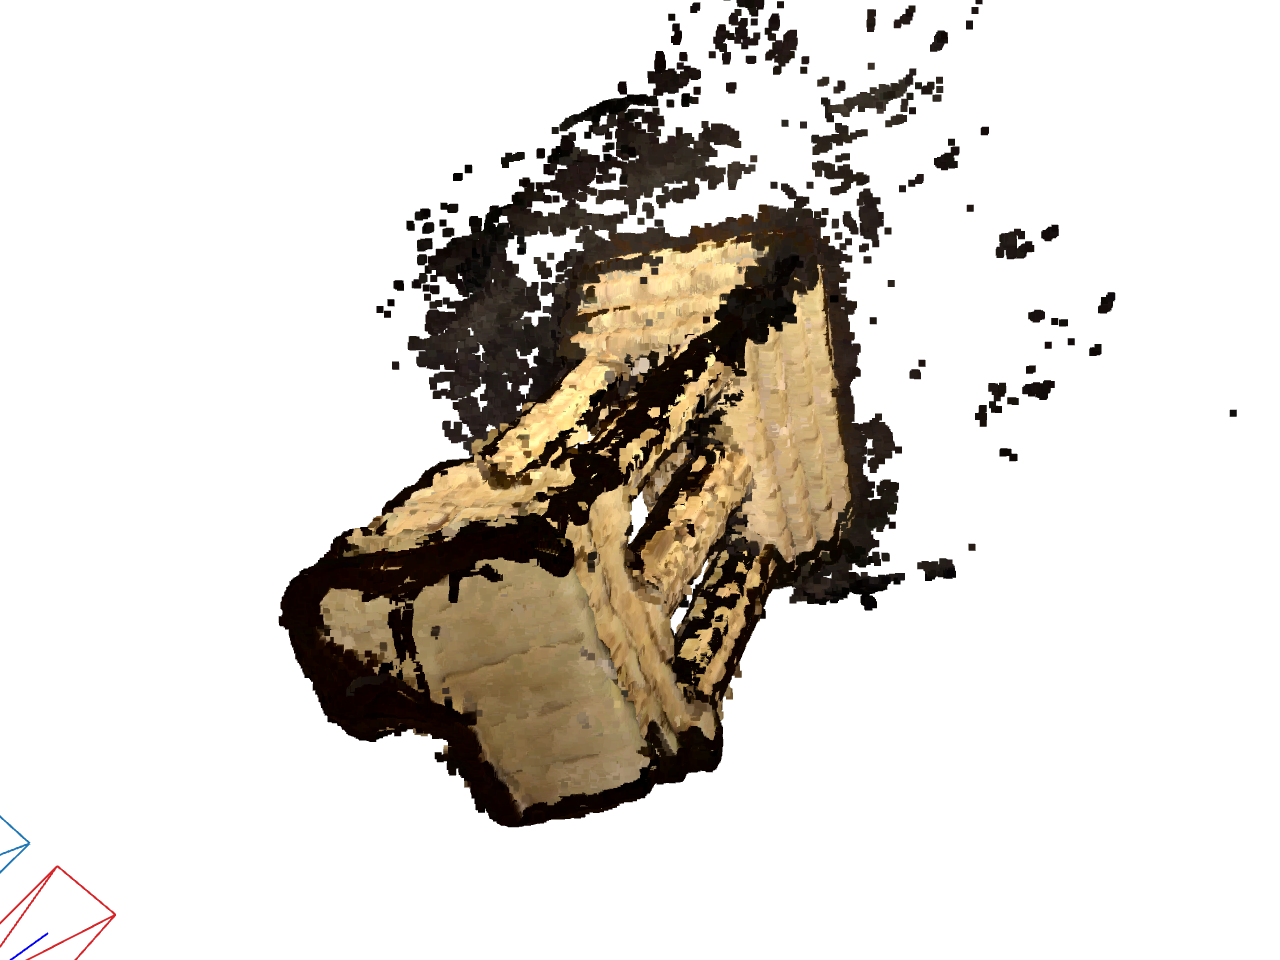
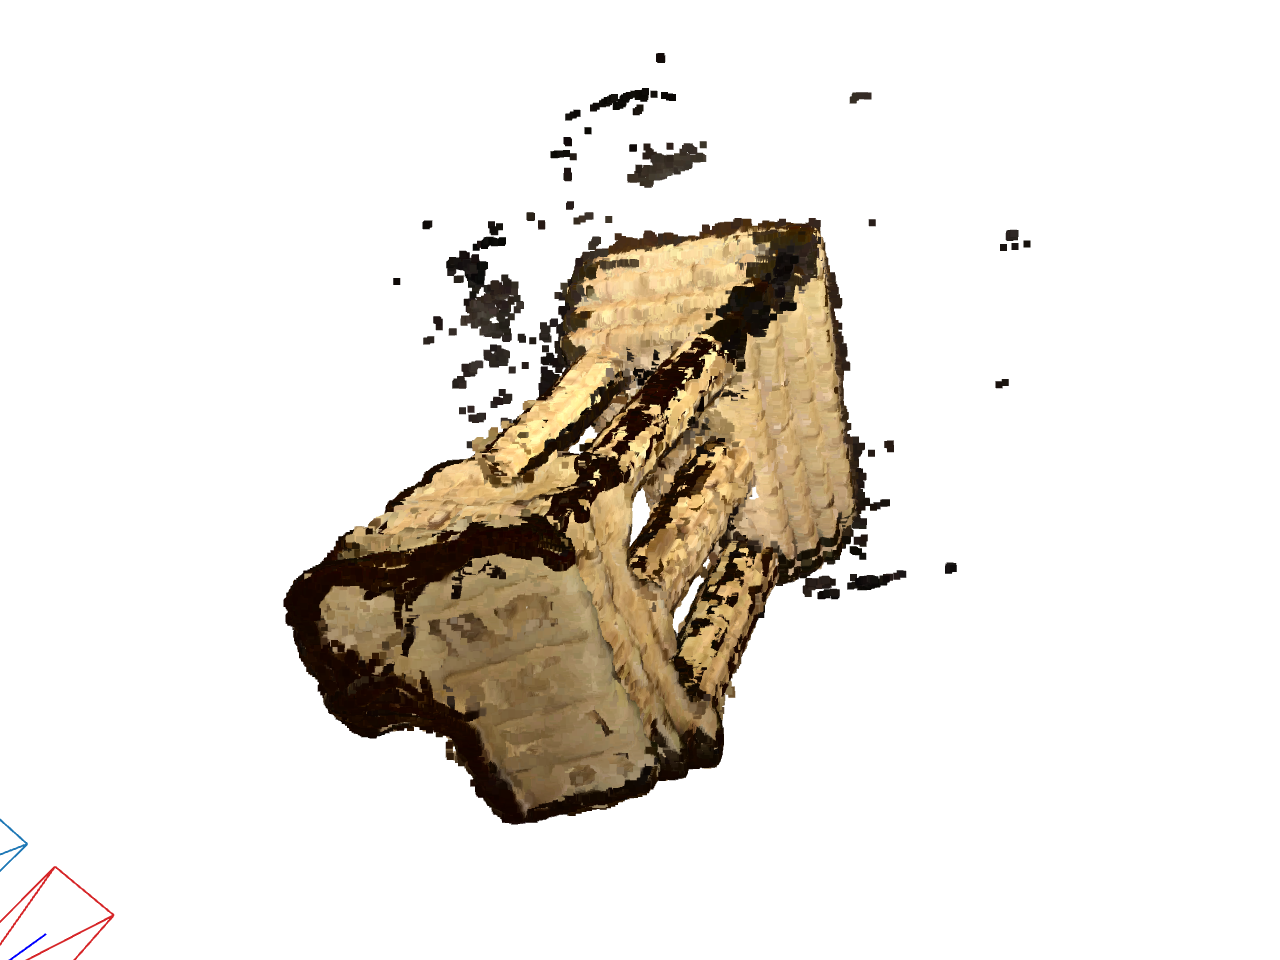
feat(dense): drop a band around depth gaps against stereo edge fattening
Off-silhouette points were almost all within 2-5 px of an edge (background taking the
object's depth). A 1 px band around every pixel without a depth (edge_erosion_px) cuts
them from 1.9 to 0.8 % on templeRing and far scatter from 0.09 to 0.01 %, for 19 %
fewer points; photometric checks and depth-jump detection measured and not adopted.

Claude-Session: https://claude.ai/code/session_012dsWF3Lh2hmvrPGaf3Pku6

diff --git a/tests/test_dense.py b/tests/test_dense.py
@@ -185,3 +185,19 @@ def test_plan_views_do_not_check_a_depth_with_the_same_stereo_pair():
     for i, checks in enumerate(plan.checks):
         assert len(checks) == 6
         assert all(plan.partner[k] != i for k in checks)
+
+
+@pytest.mark.parametrize("px", [1, 2])
+def test_pair_depth_drops_a_band_around_every_gap(scene, px):
+    """Stereo fattens edges (background next to an object takes its depth): no depth is
+    kept within ``edge_erosion_px`` of a pixel without one."""
+    import cv2
+
+    cams = _cameras(scene)
+    full, eroded = (pair_depth(scene.images[3], cams[3], scene.images[4], cams[4],
+                               _surface_points(scene), DenseConfig(edge_erosion_px=e))
+                    for e in (0, px))  # fmt: skip
+    gaps = (~np.isfinite(full)).astype(np.uint8)
+    near_gap = cv2.dilate(gaps, np.ones((2 * px + 1,) * 2, np.uint8)) > 0
+    assert not np.isfinite(eroded[near_gap]).any()
+    np.testing.assert_array_equal(eroded[~near_gap], full[~near_gap])

diff --git a/src/dense/stereo.py b/src/dense/stereo.py
@@ -111,8 +111,11 @@ def pair_depth(
     f, cx, cy = P1[0, 0], P1[0, 2], P1[1, 2]
     x, y = (rect[..., 0] - cx) / f, (rect[..., 1] - cy) / f
     depth = Z * (R1[0, 2] * x + R1[1, 2] * y + R1[2, 2])  # z of R1^T (Z [x, y, 1])
-    textured = local_std(image_i, config.block_size) >= config.min_texture
-    return np.where((depth > 0) & textured, depth, np.nan)
+    valid = (depth > 0) & (local_std(image_i, config.block_size) >= config.min_texture)
+    if config.edge_erosion_px > 0:  # edges fatten (background takes the object's depth)
+        band = np.ones((2 * config.edge_erosion_px + 1,) * 2, np.uint8)
+        valid = cv2.erode(valid.astype(np.uint8), band) > 0
+    return np.where(valid, depth, np.nan)
 
 
 def local_std(image: np.ndarray, window: int) -> np.ndarray:

diff --git a/src/config.py b/src/config.py
@@ -171,6 +171,7 @@ class DenseConfig:
     speckle_range: int = 2
     disp12_max_diff: int = 1
     min_texture: float = 2.0
+    edge_erosion_px: int = 1
     fusion_views: int = 4
     min_consistent_views: int = 2
     depth_tolerance: float = 0.01

diff --git a/README.md b/README.md
@@ -64,11 +64,11 @@ On the Middlebury **templeRing** set (47 real photos of a plaster temple, 640×4
 
 | ![dense cloud](docs/images/templeRing_dense.png) |
 |---|
-| Dense cloud from our cameras (`python -m src.cli dense`): 2.52 M points in 1.5 s, plus a Poisson mesh |
+| Dense cloud from our cameras (`python -m src.cli dense`): 2.05 M points in 1.4 s, plus a Poisson mesh |
 
 **Against COLMAP (external) on the same images and starting `K`:** on templeRing both register 47/47, our median rotation error is 0.15° vs COLMAP's 0.26° (0.19° with its focal length held fixed); on dinoRing we register 48/48, COLMAP 24/48 (its SIFT, with default thresholds, finds a third of our features on the dark object).
 
-Experiments (RQ1–RQ5, [docs/experiments.md](docs/experiments.md)): completeness is limited by the spacing between views, not their number; a Lowe ratio of 0.7–0.8 with the mutual check works best; **a 5 % focal-length error halves completeness while the reprojection error stays flat — and refining the focal length in bundle adjustment (now the default) recovers the calibrated result from ±20 % errors**; SIFT beats ORB on reliable points; bundle adjustment cuts pose errors 4×; dense stereo gives 400× the points of the sparse cloud on the same cameras (RQ5).
+Experiments (RQ1–RQ5, [docs/experiments.md](docs/experiments.md)): completeness is limited by the spacing between views, not their number; a Lowe ratio of 0.7–0.8 with the mutual check works best; **a 5 % focal-length error halves completeness while the reprojection error stays flat — and refining the focal length in bundle adjustment (now the default) recovers the calibrated result from ±20 % errors**; SIFT beats ORB on reliable points; bundle adjustment cuts pose errors 4×; dense stereo gives 300× the points of the sparse cloud on the same cameras (RQ5).
 
 ### Course alignment (3D Computer Vision)
 
@@ -551,7 +551,7 @@ Report only metrics meaningful for the implementation tier (e.g. no camera-regis
 
 **Without ground truth**, reprojection error and completeness are internal diagnostics only — they do not establish absolute 3D accuracy. With reference geometry, align first (Umeyama similarity or ICP) and then compute Chamfer / completeness.
 
-**Results:** [`docs/experiments.md`](docs/experiments.md). In short: completeness is limited by view spacing (RQ1); ratio 0.7–0.8 with the mutual check is best (RQ2); a 5 % focal-length error halves completeness while reprojection error stays flat, and refining the focal length in BA undoes ±20 % errors (RQ3, E3b); ORB gives 3× the points but 4× the pose error (RQ4); bundle adjustment cuts pose error 4× (E5); our cameras have a lower rotation error than COLMAP's on all three Middlebury sets, and the dense stage turns 6 k points into 2.5 M with fewer outliers (E6, RQ5).
+**Results:** [`docs/experiments.md`](docs/experiments.md). In short: completeness is limited by view spacing (RQ1); ratio 0.7–0.8 with the mutual check is best (RQ2); a 5 % focal-length error halves completeness while reprojection error stays flat, and refining the focal length in BA undoes ±20 % errors (RQ3, E3b); ORB gives 3× the points but 4× the pose error (RQ4); bundle adjustment cuts pose error 4× (E5); our cameras have a lower rotation error than COLMAP's on all three Middlebury sets, and the dense stage turns 6 k points into 2 M with fewer outliers (E6, RQ5).
 
 **Reproducibility:** every experiment records dataset ID, image count, full config, calibration, software versions, hardware, runtime, metrics, and output paths in CSV/JSON.
 
@@ -593,7 +593,7 @@ Report only metrics meaningful for the implementation tier (e.g. no camera-regis
 3. **Low reprojection error ≠ accurate 3D geometry.** In E3 the reprojection error stays ~0.25 px while the geometry degrades.
 4. Textureless, reflective, transparent and repetitive surfaces are unreliable; on smooth plaster SIFT finds ~870 features per image. Dark or low-contrast images get a lower SIFT threshold automatically (`features.sift_adaptive_min_features`), which recovers dinoRing (48/48 cameras), but it cannot create texture that is not there.
 5. Moving objects violate the static-scene assumption.
-6. Sparse clouds do not represent complete surfaces. The dense stage covers textured surfaces seen by a stereo partner (a median 26 % of each templeRing image has a depth: the object, not the black background); edges keep a thin halo of background points and some scatter remains (1.9 % of points fall outside a silhouette). Uniform regions get no depth, and the Poisson mesh closes holes by extrapolation.
+6. Sparse clouds do not represent complete surfaces. The dense stage covers textured surfaces seen by a stereo partner (a median 20 % of each templeRing image has a depth: the object, not the black background); a 1 px band around every gap is dropped against edge fattening, and 0.8 % of points still fall outside a silhouette. Uniform regions get no depth, and the Poisson mesh closes holes by extrapolation.
 7. No metric scale without an external reference; one measured distance sets it (on templeRing consistent with the full fit to < 1 %).
 8. Matching is exhaustive up to 50 images (sequential beyond); there is no loop closure or global SfM, so very long sequences may drift.
 9. Evaluated on one public dataset; results vary across datasets and camera setups.
@@ -606,7 +606,7 @@ Failure cases are documented with evidence in [docs/experiments.md](docs/experim
 
 Directly suggested by the results:
 
-- **Better dense stereo:** several partners per view or plane-sweep / PatchMatch stereo, a photometric check in fusion against edge halos, and an outlier filter fast enough for millions of points; COLMAP's dense stereo as a comparison on a CUDA machine.
+- **Better dense stereo:** several partners per view or plane-sweep / PatchMatch stereo, an outlier filter fast enough for millions of points; COLMAP's dense stereo as a comparison on a CUDA machine.
 - **Refine the principal point and radial distortion** in bundle adjustment too (the focal length is refined since E3b), and per-camera intrinsics for mixed-camera photo sets.
 - **Sparser rings:** a relative-pose registration fallback (now default) and optional affine simulation are in; dinoSparseRing still registers 6/16 because its weak neighbour pairs do not determine a relative pose ([`data/sample/README.md`](data/sample/README.md)). Learned matchers (SuperPoint/LightGlue) or more views are the remaining options.
 - More datasets with ground truth (ETH3D, Tanks & Temples) and own captures; dinoRing is done (48/48, [`data/sample/README.md`](data/sample/README.md#results-on-dinoring)).

diff --git a/docs/experiments.md b/docs/experiments.md
@@ -149,15 +149,15 @@ On templeRing both systems recover every camera and our poses are slightly more 
 | | points | outside a silhouette | time (s) | pixels with a depth (median) |
 |---|---|---|---|---|
 | templeRing sparse | 6 364 | 4.6 % | 12.6 | — |
-| templeRing dense | 2 521 565 | **1.9 %** | +1.5 | 26 % |
+| templeRing dense | 2 053 407 | **0.8 %** | +1.4 | 20 % |
 | dinoRing sparse | 3 462 | 10.2 % | 22.2 | — |
-| dinoRing dense | 1 179 054 | **6.2 %** | +1.0 | 17 % |
+| dinoRing dense | 707 114 | **5.8 %** | +0.8 | 10 % |
 
 ![templeRing dense](images/templeRing_dense.png)
 
-The settings were chosen on templeRing by this measure: an SGBM block of 3 px (larger blocks fatten object edges: 7.6 % outside with a 7 px block, 6.4 % with 5 px and a texture threshold of 1.5), no depth where the grey levels' standard deviation in the block is below 2 (uniform background matches anywhere: without this mask the black background around the temple became a wall of points, 5 M in all), rectification that keeps every pixel (`alpha` 0 crops the image borders: 61 % instead of 87 % of the true depths on rendered views). Requiring 3 confirming views instead of 2 removed fewer outliers (4.5 %) than the block size did. A view whose depth map came from stereo with the checked view is never one of its checks (it would repeat the same matching errors): 2.0 % → 1.9 %.
+The settings were chosen on templeRing by this measure: an SGBM block of 3 px (larger blocks fatten object edges: 7.6 % outside with a 7 px block, 6.4 % with 5 px and a texture threshold of 1.5), no depth where the grey levels' standard deviation in the block is below 2 (uniform background matches anywhere: without this mask the black background around the temple became a wall of points, 5 M in all), rectification that keeps every pixel (`alpha` 0 crops the image borders: 61 % instead of 87 % of the true depths on rendered views). Requiring 3 confirming views instead of 2 removed fewer outliers (4.5 %) than the block size did. A view whose depth map came from stereo with the checked view is never one of its checks (it would repeat the same matching errors): 2.0 % → 1.9 %. Of the remaining off-silhouette points, almost all lay within 2–5 px of a silhouette (edge fattening: 2.5 % beyond 2 px in some view, 0.09 % beyond 10 px), so each depth map drops a 1 px band around every pixel without a depth (`edge_erosion_px`): 1.9 % → 0.8 %, far scatter (> 10 px) 0.09 % → 0.01 %, for 19 % fewer points. A 2 px band gained little more (0.7 %) for another 23 % of the points; detecting depth jumps explicitly added nothing, and a photometric check in fusion (grey levels within 10–40 at the projections) only reached 1.6 % while dropping up to 18 % of the points. On dinoRing the band costs 40 % of the points (its depth maps are fragmented) for 6.2 % → 5.8 %; the dark dino itself falls partly below the silhouette threshold, so this measure is noisier there.
 
-**RQ5:** sparse reconstruction is enough to recover the cameras — 0.15°, better than COLMAP here — but 6 k points are not a surface: they exist only where SIFT finds distinctive features. Dense stereo on the same cameras gives 400× the points in a few seconds and covers the textured surface, with fewer outliers by the silhouette measure. Its limits are different ones: uniform regions get no depth at all, edges keep a thin halo of background points (stereo edge fattening), and isolated scatter remains that the sparse outlier filters are too slow to remove at millions of points; the Poisson mesh then closes holes by extrapolation. Dense quality also rests entirely on the sparse cameras: rendered views with exact cameras give a median depth error of 0.1–0.3 %.
+**RQ5:** sparse reconstruction is enough to recover the cameras — 0.15°, better than COLMAP here — but 6 k points are not a surface: they exist only where SIFT finds distinctive features. Dense stereo on the same cameras gives 300× the points in a few seconds and covers the textured surface, with fewer outliers by the silhouette measure. Its limits are different ones: uniform regions get no depth at all, edges fatten in stereo (background next to the object takes its depth; a 1 px band around every gap removes most of it), and a little isolated scatter remains that the sparse outlier filters are too slow to remove at millions of points; the Poisson mesh then closes holes by extrapolation. Dense quality also rests entirely on the sparse cameras: rendered views with exact cameras give a median depth error of 0.1–0.3 %.
 
 ## Failure cases
 

diff --git a/docs/methodology.md b/docs/methodology.md
@@ -119,7 +119,7 @@ Steps 4–5 use Open3D's tensor API (**external**). Because a monocular reconstr
 2. **Rectification** from the known relative pose, `R = R_j R_iᵀ`, `t = t_j − R t_i`, with `cv2.stereoRectify` (zero-disparity principal points, `alpha` 1 keeps every pixel). A mostly vertical baseline is matched on the transposed images.
 3. **Disparity search range** from the sparse points: project them into both rectified views, take the 1st–99th percentile of `d = x₁ − x₂` and widen by 16 px; either sign works, SGBM searches negative disparities too.
 4. **Matching:** `cv2.StereoSGBM` (**external**; 3 px block, uniqueness and speckle filters, left-right check).
-5. **Back to the image's own pixels.** Every original pixel is mapped into the rectified view (`cv2.undistortPoints` with `R₁`, `P₁`), its disparity sampled bilinearly (missing neighbours leave it empty), and converted to depth: `Z_rect = −P₂[axis, 3] / d`, then the camera's own `z` via `R₁ᵀ`. Pixels whose grey-level standard deviation in the block window is below 2 get no depth: uniform regions match anywhere.
+5. **Back to the image's own pixels.** Every original pixel is mapped into the rectified view (`cv2.undistortPoints` with `R₁`, `P₁`), its disparity sampled bilinearly (missing neighbours leave it empty), and converted to depth: `Z_rect = −P₂[axis, 3] / d`, then the camera's own `z` via `R₁ᵀ`. Pixels whose grey-level standard deviation in the block window is below 2 get no depth: uniform regions match anywhere. Then a 1 px band around every pixel without a depth is dropped too (`edge_erosion_px`): stereo fattens edges, giving background pixels next to the object its depth.
 6. **Fusion.** Each depth is back-projected to a world point and projected into its check views; it survives if at least 2 of their depth maps agree within 1 % (relative) at that pixel. Survivors are averaged on a voxel grid of 0.1 % of the sparse cloud's extent (position, colour, viewing direction).
 7. **Mesh:** normals from `normal_neighbours` (30), flipped towards the cameras that saw each point, screened Poisson reconstruction (Open3D, **external**; octree depth 9), and the 2 % lowest-density vertices (extrapolated surface) removed. Open3D 0.20's multithreaded Poisson aborted (libc++abi) on a finite, voxel-deduplicated cloud, so `poisson_threads` defaults to 1 (~2 s). The per-image stereo runs on `performance.workers` threads (OpenCV releases the GIL).
 
